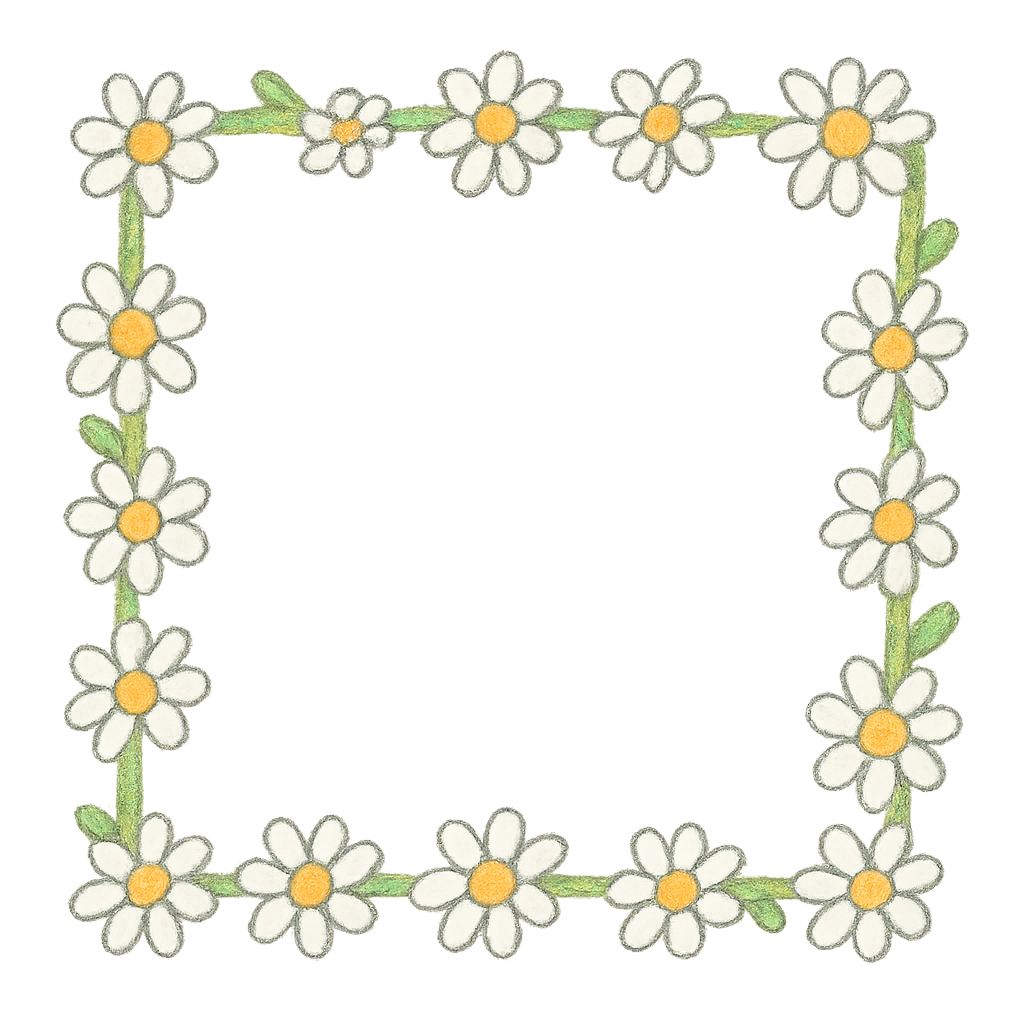
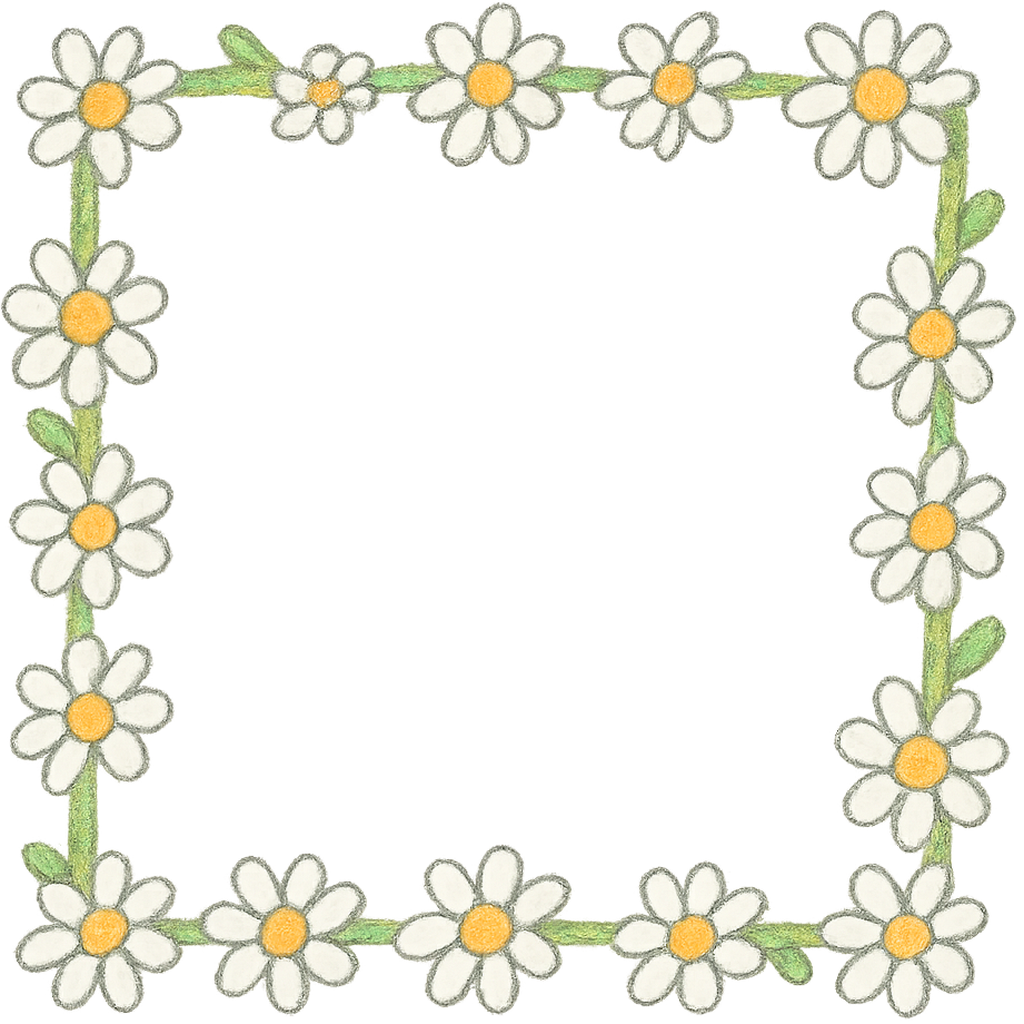
fix(collection): borders edge-to-edge, dial Shiny down, shoes off
Three Toby fixes:

- canonical_copy_full now trims the border source first, then resizes
  the design to fill 1024² — daisy/leafy/star/rainbow frames now touch
  the four edges of the tile instead of sitting padded inside it.

- Shiny was too aggressive; the sweep band at 0.85 white overwhelmed
  the frog underneath. Dropped to 0.35 opacity and narrowed the band
  from 20% of the gradient to 10%. Still a clear sweep, frog visible
  through it.

- Shoes off ACTIVE_CATEGORIES. The art (whether side-on or top-down)
  doesn't read on Mr Frog's splayed stick feet; rather than ship bad
  shoes, the category goes back into the deferred pile alongside
  eyewear and held-item. Frogs are bare-foot until we can either
  generate truly front-on shoes that anchor to each foot individually,
  or accept a stylistic compromise we both like.

Changed region(s): [[0.0, 0.0, 1.0, 1.0]]

diff --git a/app/data/collection-traits.ts b/app/data/collection-traits.ts
@@ -270,7 +270,7 @@ export const COLLECTION_SEED = 0x4d724672;
  * first value (none / matte / classic-green). COLLECTION_SIZE grows with the
  * phases — 50 while proving the loop, → 10,000 once every layer is switched on.
  */
-export const ACTIVE_CATEGORIES: TraitCategoryId[] = ["background", "frogColour", "outfit", "headwear", "shoes", "border", "finish"];
+export const ACTIVE_CATEGORIES: TraitCategoryId[] = ["background", "frogColour", "outfit", "headwear", "border", "finish"];
 export const COLLECTION_SIZE = 50;
 
 /** The five playful stats every frog carries. */

diff --git a/app/globals.css b/app/globals.css
@@ -282,16 +282,16 @@ h3 {
   border-radius: inherit;
 }
 
-/* Shiny — clear gloss sweep across the card */
+/* Shiny — a subtle gloss sweep, mustn't obscure the frog */
 .fx-shiny::before {
   content: "";
   position: absolute;
   inset: -40%;
   background: linear-gradient(
     62deg,
-    transparent 40%,
-    rgba(255, 255, 255, 0.85) 50%,
-    transparent 60%
+    transparent 45%,
+    rgba(255, 255, 255, 0.35) 50%,
+    transparent 55%
   );
   animation: fx-sweep 3.2s linear infinite;
 }

diff --git a/scripts/build-collection-layers.py b/scripts/build-collection-layers.py
@@ -231,12 +231,15 @@ def place_background(src: Path) -> Image.Image:
 
 
 def canonical_copy_full(src: Path) -> Image.Image:
-    """Borders / overlays that should fill the WHOLE tile — no FROG_TOP_PAD
-    shift. Just resize to 1024² if needed and return."""
+    """Borders / overlays that should fill the WHOLE tile. Trim the
+    transparent padding from the source first, then resize the design to
+    fill the 1024² canvas — so a 'four-edges' frame actually touches the
+    four edges of the tile rather than sitting inset from them."""
     img = Image.open(src).convert("RGBA")
-    if img.size != (CANVAS, CANVAS):
-        img = img.resize((CANVAS, CANVAS), Image.LANCZOS)
-    return img
+    bb = img.getbbox()
+    if bb:
+        img = img.crop(bb)
+    return img.resize((CANVAS, CANVAS), Image.LANCZOS)
 
 
 def canonical_copy(src: Path) -> Image.Image:
